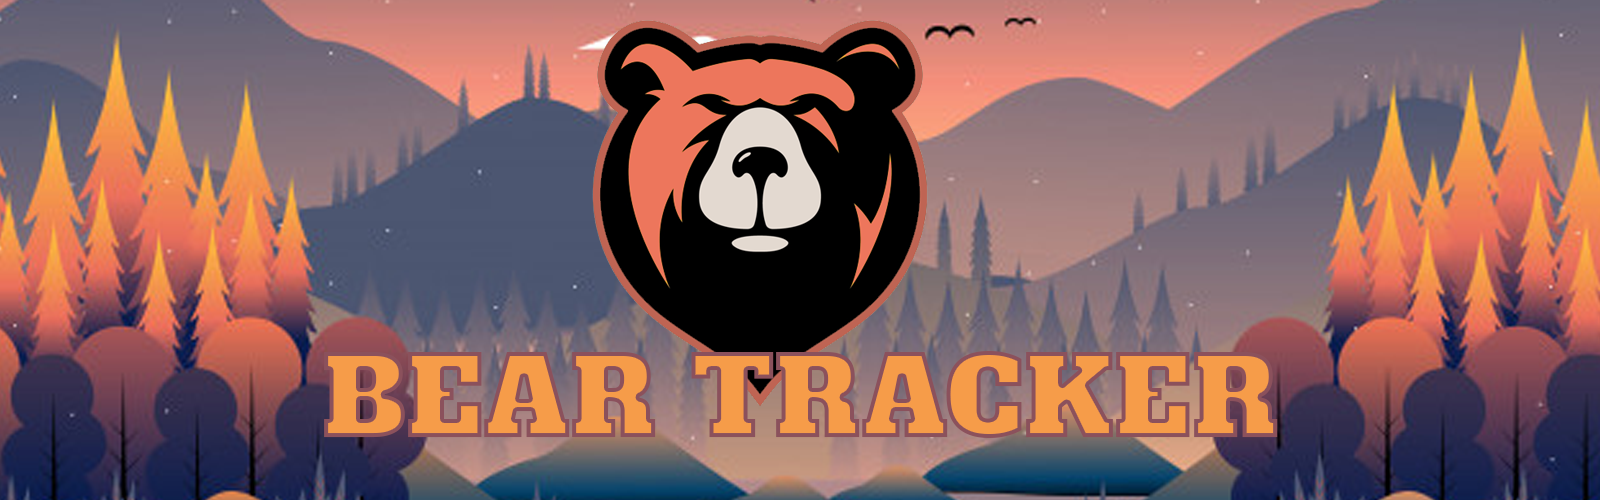
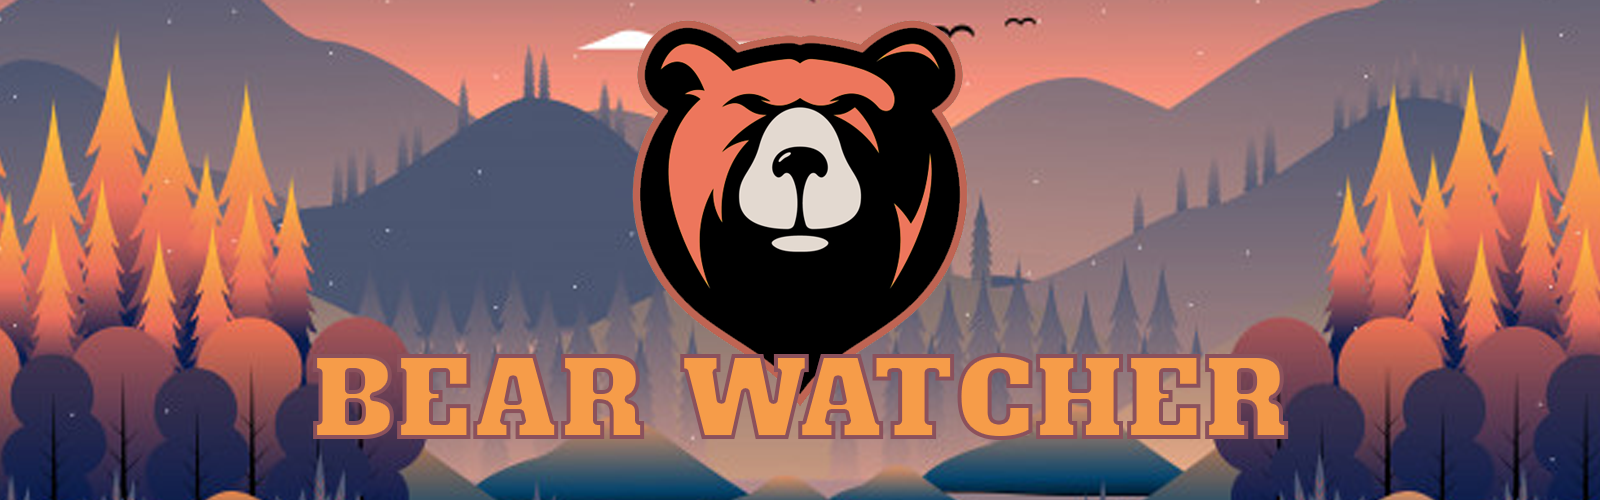
made changes to scss and js file

Changed region(s): [[0.1875, 0.03, 0.8125, 0.9]]

diff --git a/src/index.html b/src/index.html
@@ -4,9 +4,7 @@
   <meta charset="UTF-8">
   <meta name="viewport" content="width=device-width, initial-scale=1.0">
   <meta http-equiv="X-UA-Compatible" content="ie=edge">
-  <link rel="stylesheet" href="https://stackpath.bootstrapcdn.com/bootstrap/4.3.1/css/bootstrap.min.css" integrity="sha384-ggOyR0iXCbMQv3Xipma34MD+dH/1fQ784/j6cY/iJTQUOhcWr7x9JvoRxT2MZw1T" crossorigin="anonymous">
-  <link rel="stylesheet" href="/src/styles/main.css">
-  <title>Bear Tracker</title>
+  <title>Bear Watcher</title>
 </head>
 <body>
   <!--------------------------------------------- Hero image ----------------------------------------->
@@ -46,9 +44,6 @@
   </section>
 
   <!---------------------------------------- scripts----------------------------------------------- -->
- <script src="/src/javascripts/main.js"></script>
-<script src="https://code.jquery.com/jquery-3.3.1.slim.min.js" integrity="sha384-q8i/X+965DzO0rT7abK41JStQIAqVgRVzpbzo5smXKp4YfRvH+8abtTE1Pi6jizo" crossorigin="anonymous"></script>
-<script src="https://cdnjs.cloudflare.com/ajax/libs/popper.js/1.14.7/umd/popper.min.js" integrity="sha384-UO2eT0CpHqdSJQ6hJty5KVphtPhzWj9WO1clHTMGa3JDZwrnQq4sF86dIHNDz0W1" crossorigin="anonymous"></script>
-<script src="https://stackpath.bootstrapcdn.com/bootstrap/4.3.1/js/bootstrap.min.js" integrity="sha384-JjSmVgyd0p3pXB1rRibZUAYoIIy6OrQ6VrjIEaFf/nJGzIxFDsf4x0xIM+B07jRM" crossorigin="anonymous"></script>
+ 
 </body>
 </html>

diff --git a/src/javascripts/main.js b/src/javascripts/main.js
@@ -1,1 +1,5 @@
 import 'bootstrap';
+
+import '../styles/main.scss';
+
+console.error('Hello world!');
